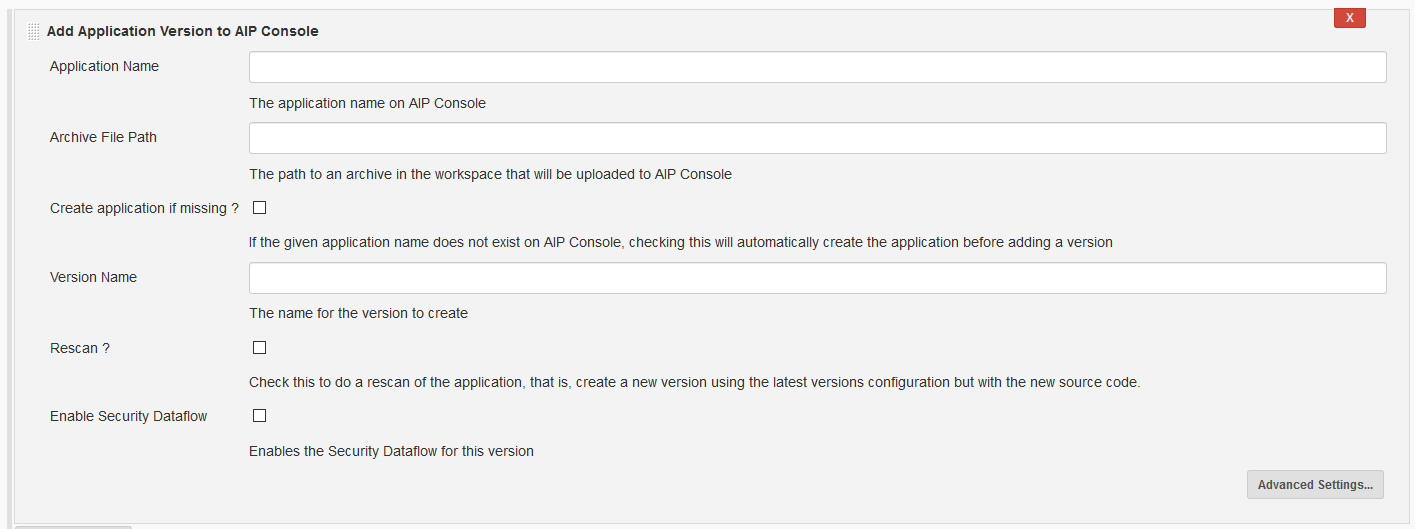
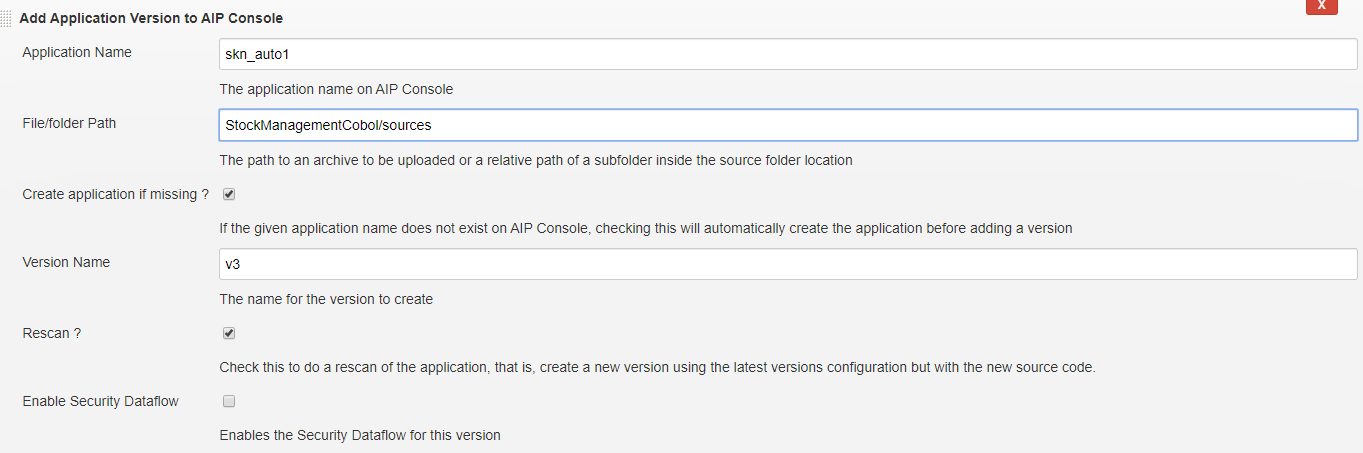
skn-20200506: update readme

diff --git a/aip-console-jenkins/README.md b/aip-console-jenkins/README.md
@@ -51,6 +51,9 @@ You must give an Application Name and a path to a an Archive File, either `zip`,
 The application name will be checked on AIP Console, and the application GUID will be obtained this way (it'll be saved in the job configuration and displayed in the read only field Application GUID)
 
 This Archive file will be uploaded to AIP Console, extracted and then run through the whole analysis workflow, as if you had done so through the AIP Console UI.
+* From 1.15, you can provide a relative path to a subfolder inside the source folder location configured in AIP Console to skip the uploading zip process.
+    
+    ![source_foler_location_config](./doc/images/source_folder_location_config.png)
 
 ⚠ *When creating versions for very large applications (above 1Gb of source code), be careful of the timeout configuration, either globally or in your job. As the upload completes, there is a copy operation and depending on your machines specs, it might take more than the default timeout (30s).*
 
@@ -66,6 +69,7 @@ Under the **Advanced Settings** button are some more parameters for advanced usa
 
 * *Ignore Analysis Failure ?* : By default, failed analysis will mark the Jenkins Build as a Failure. Checking this will mark them as Unstable instead of failing the entire build.
 * *Node Name* : Enter the name of a node where the application will be created if it will be created. This parameter is ignored if the application already exists.
+  * From Console 1.14 the node name is no longer required, Console is able to determine the node automatically.
 * *Connection Timeout (in seconds)* : The time (in seconds) before a connection to AIP Console is considered timed out (i.e. that AIP console might be unavailable). For unlimited wait, you can set this to `0`
 
 Here is a sample output of the Add Version step : 

diff --git a/aip-console-tools-cli/README.md b/aip-console-tools-cli/README.md
@@ -14,9 +14,11 @@ HotSpot (AdoptOpenJDK, Oracle) JVMs have been tested and work well; other JVMs (
 Before using this tool, you will have to :
 
 * Generate an API Token for your user. See below in the "Token" chapter to see different methods for passing the token to AIP Console CLI Tool.
-* Prepare your source code as a ZIP file that will be uploaded to AIP Console.
+* Prepare your source code as a ZIP file or a relative path to a subfolder inside the source folder location configured in AIP Console
 
-**NB:** The provided ZIP file structure will be better processed if you separate each technology into a specific root folder.
+    ![source_foler_location_config](./doc/images/source_folder_location_config.png)
+
+**NB:** The provided source code structure will be better processed if you separate each technology into a specific root folder.
 
 ### Basic Usage
 
@@ -141,7 +143,7 @@ Creates a new version for an application on AIP Console
   -a, --app-guid=APPLICATION_GUID
                             The GUID of the application to rescan
   -c, --clone, --rescan     Clones the latest version configuration instead of creating a new version
-  -f, --file=FILE           The ZIP file containing the source to rescan
+  -f, --file=FILE           The ZIP file containing the source or a relative path to a subfolder inside source folder location
   -h, --help                Show this help message and exit.
   -n, --app-name=APPLICATION_NAME
                             The Name of the application to rescan
